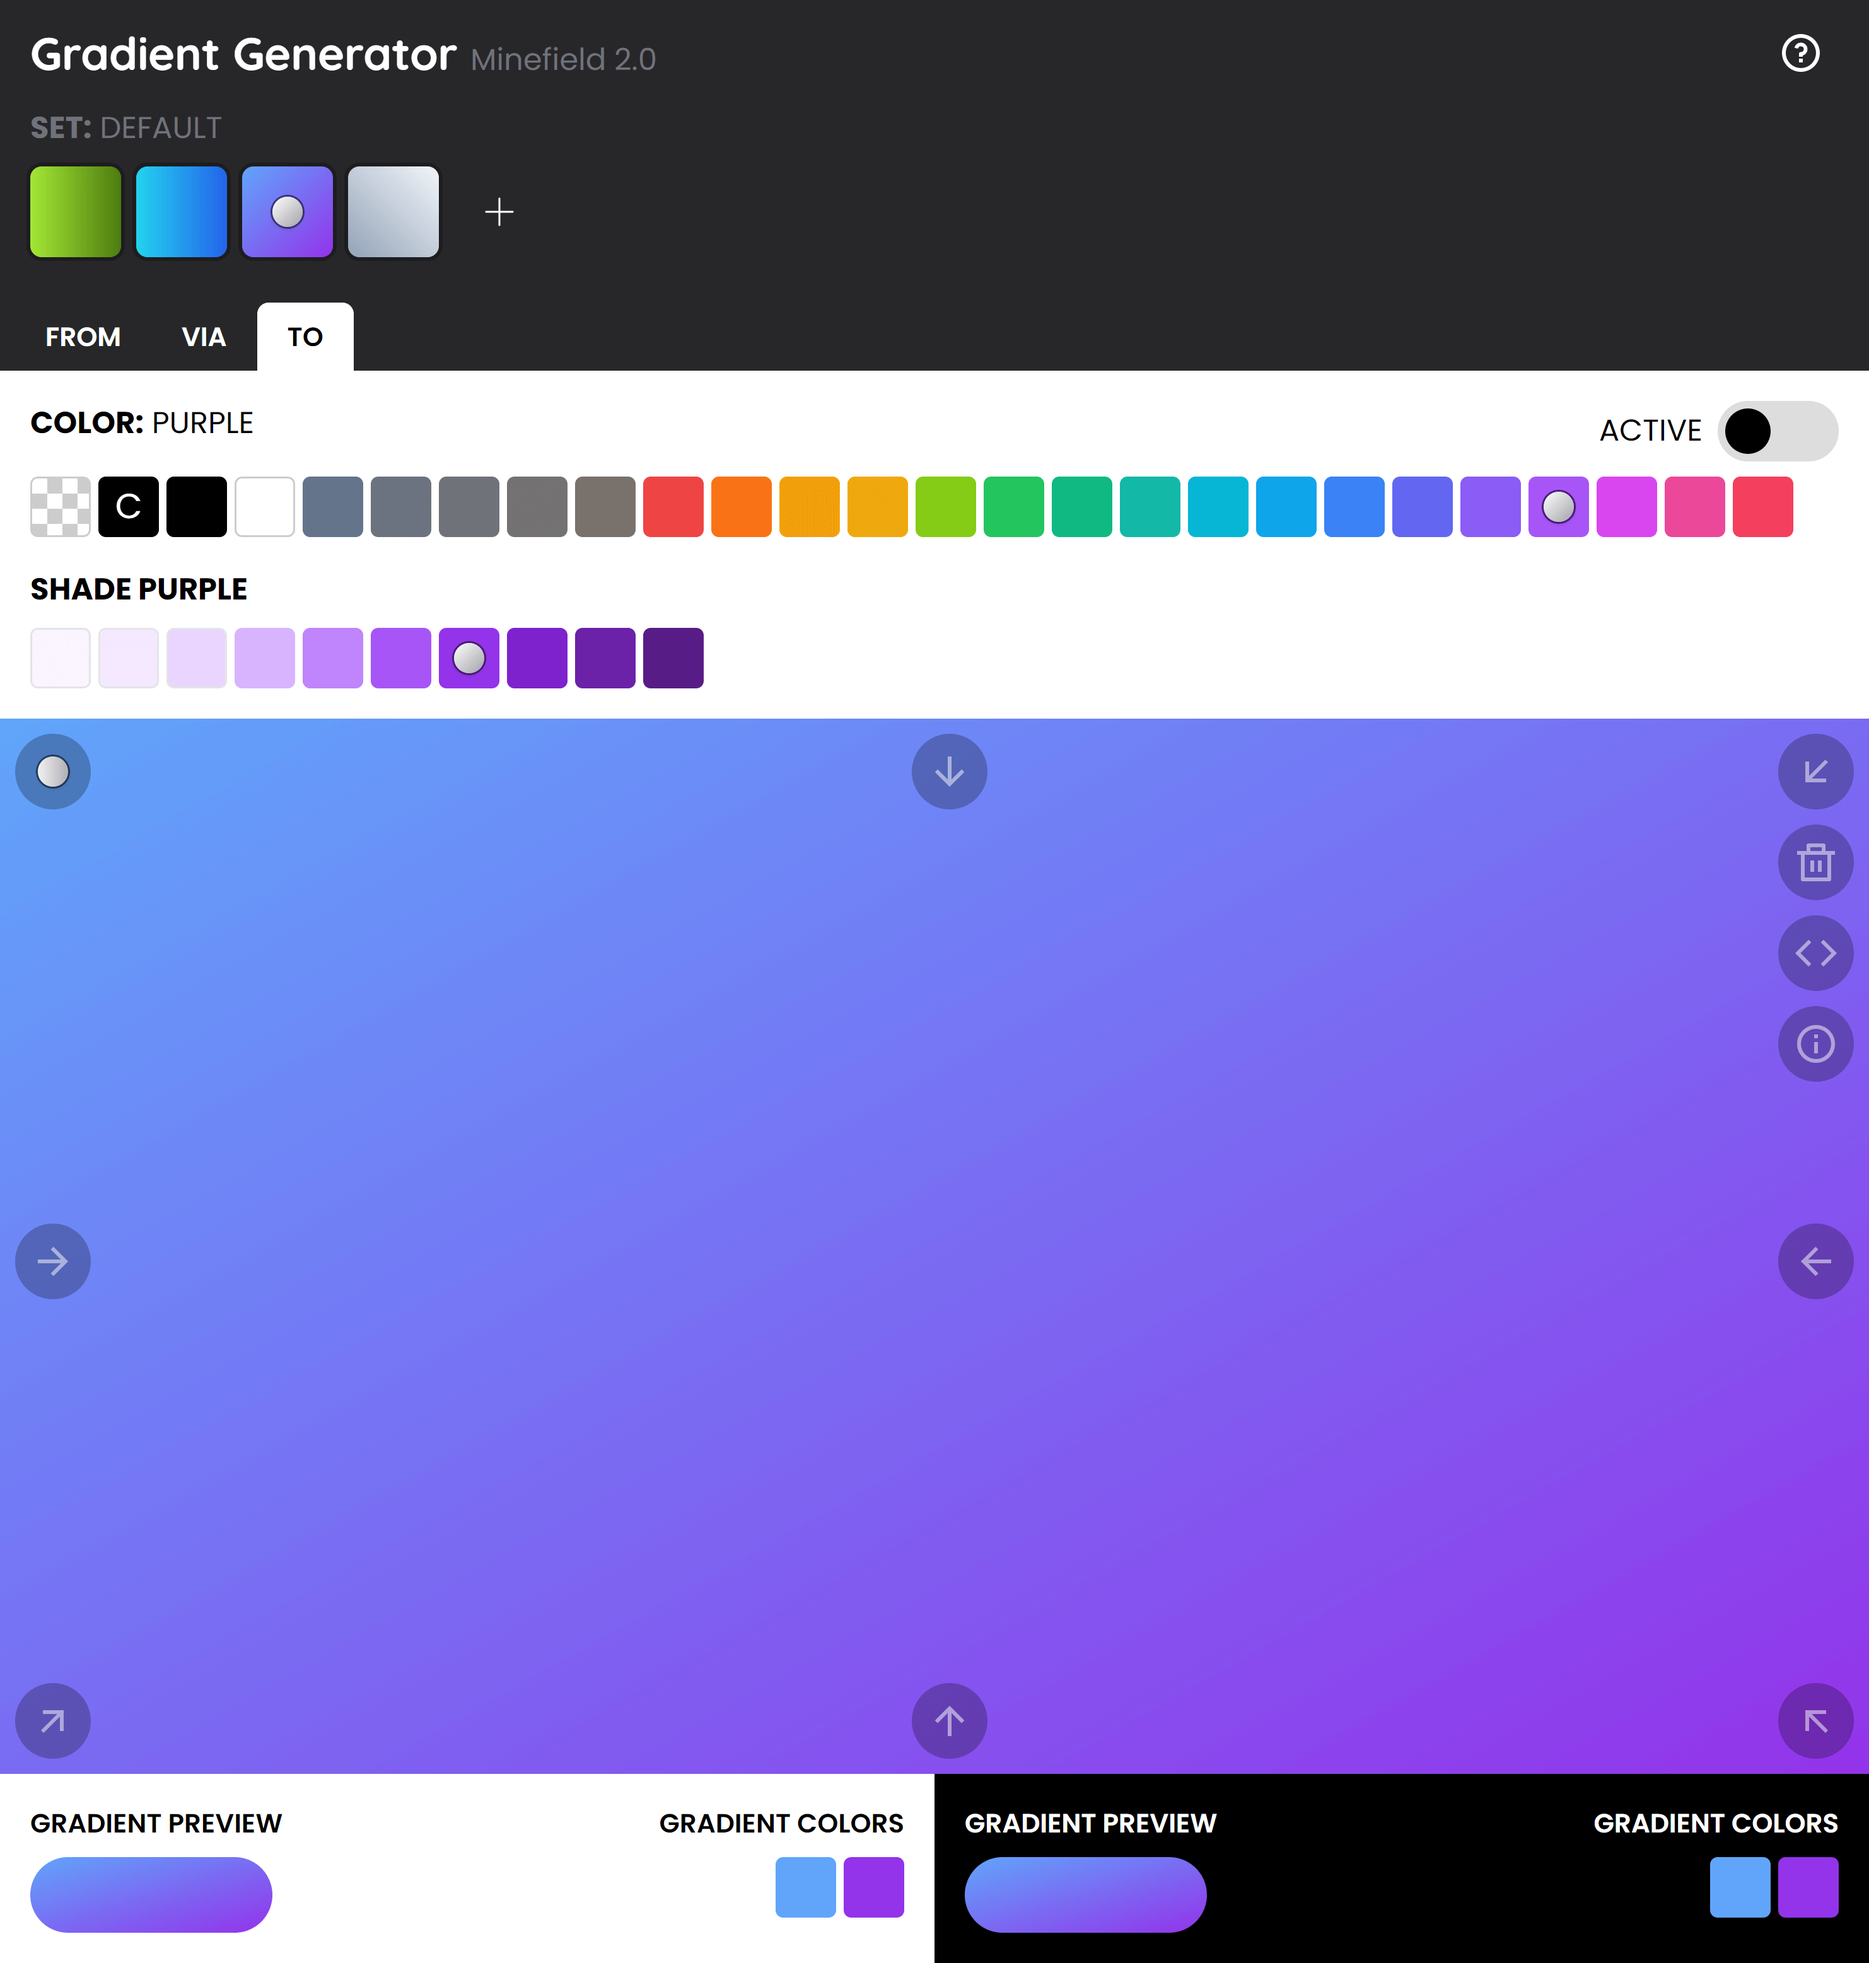
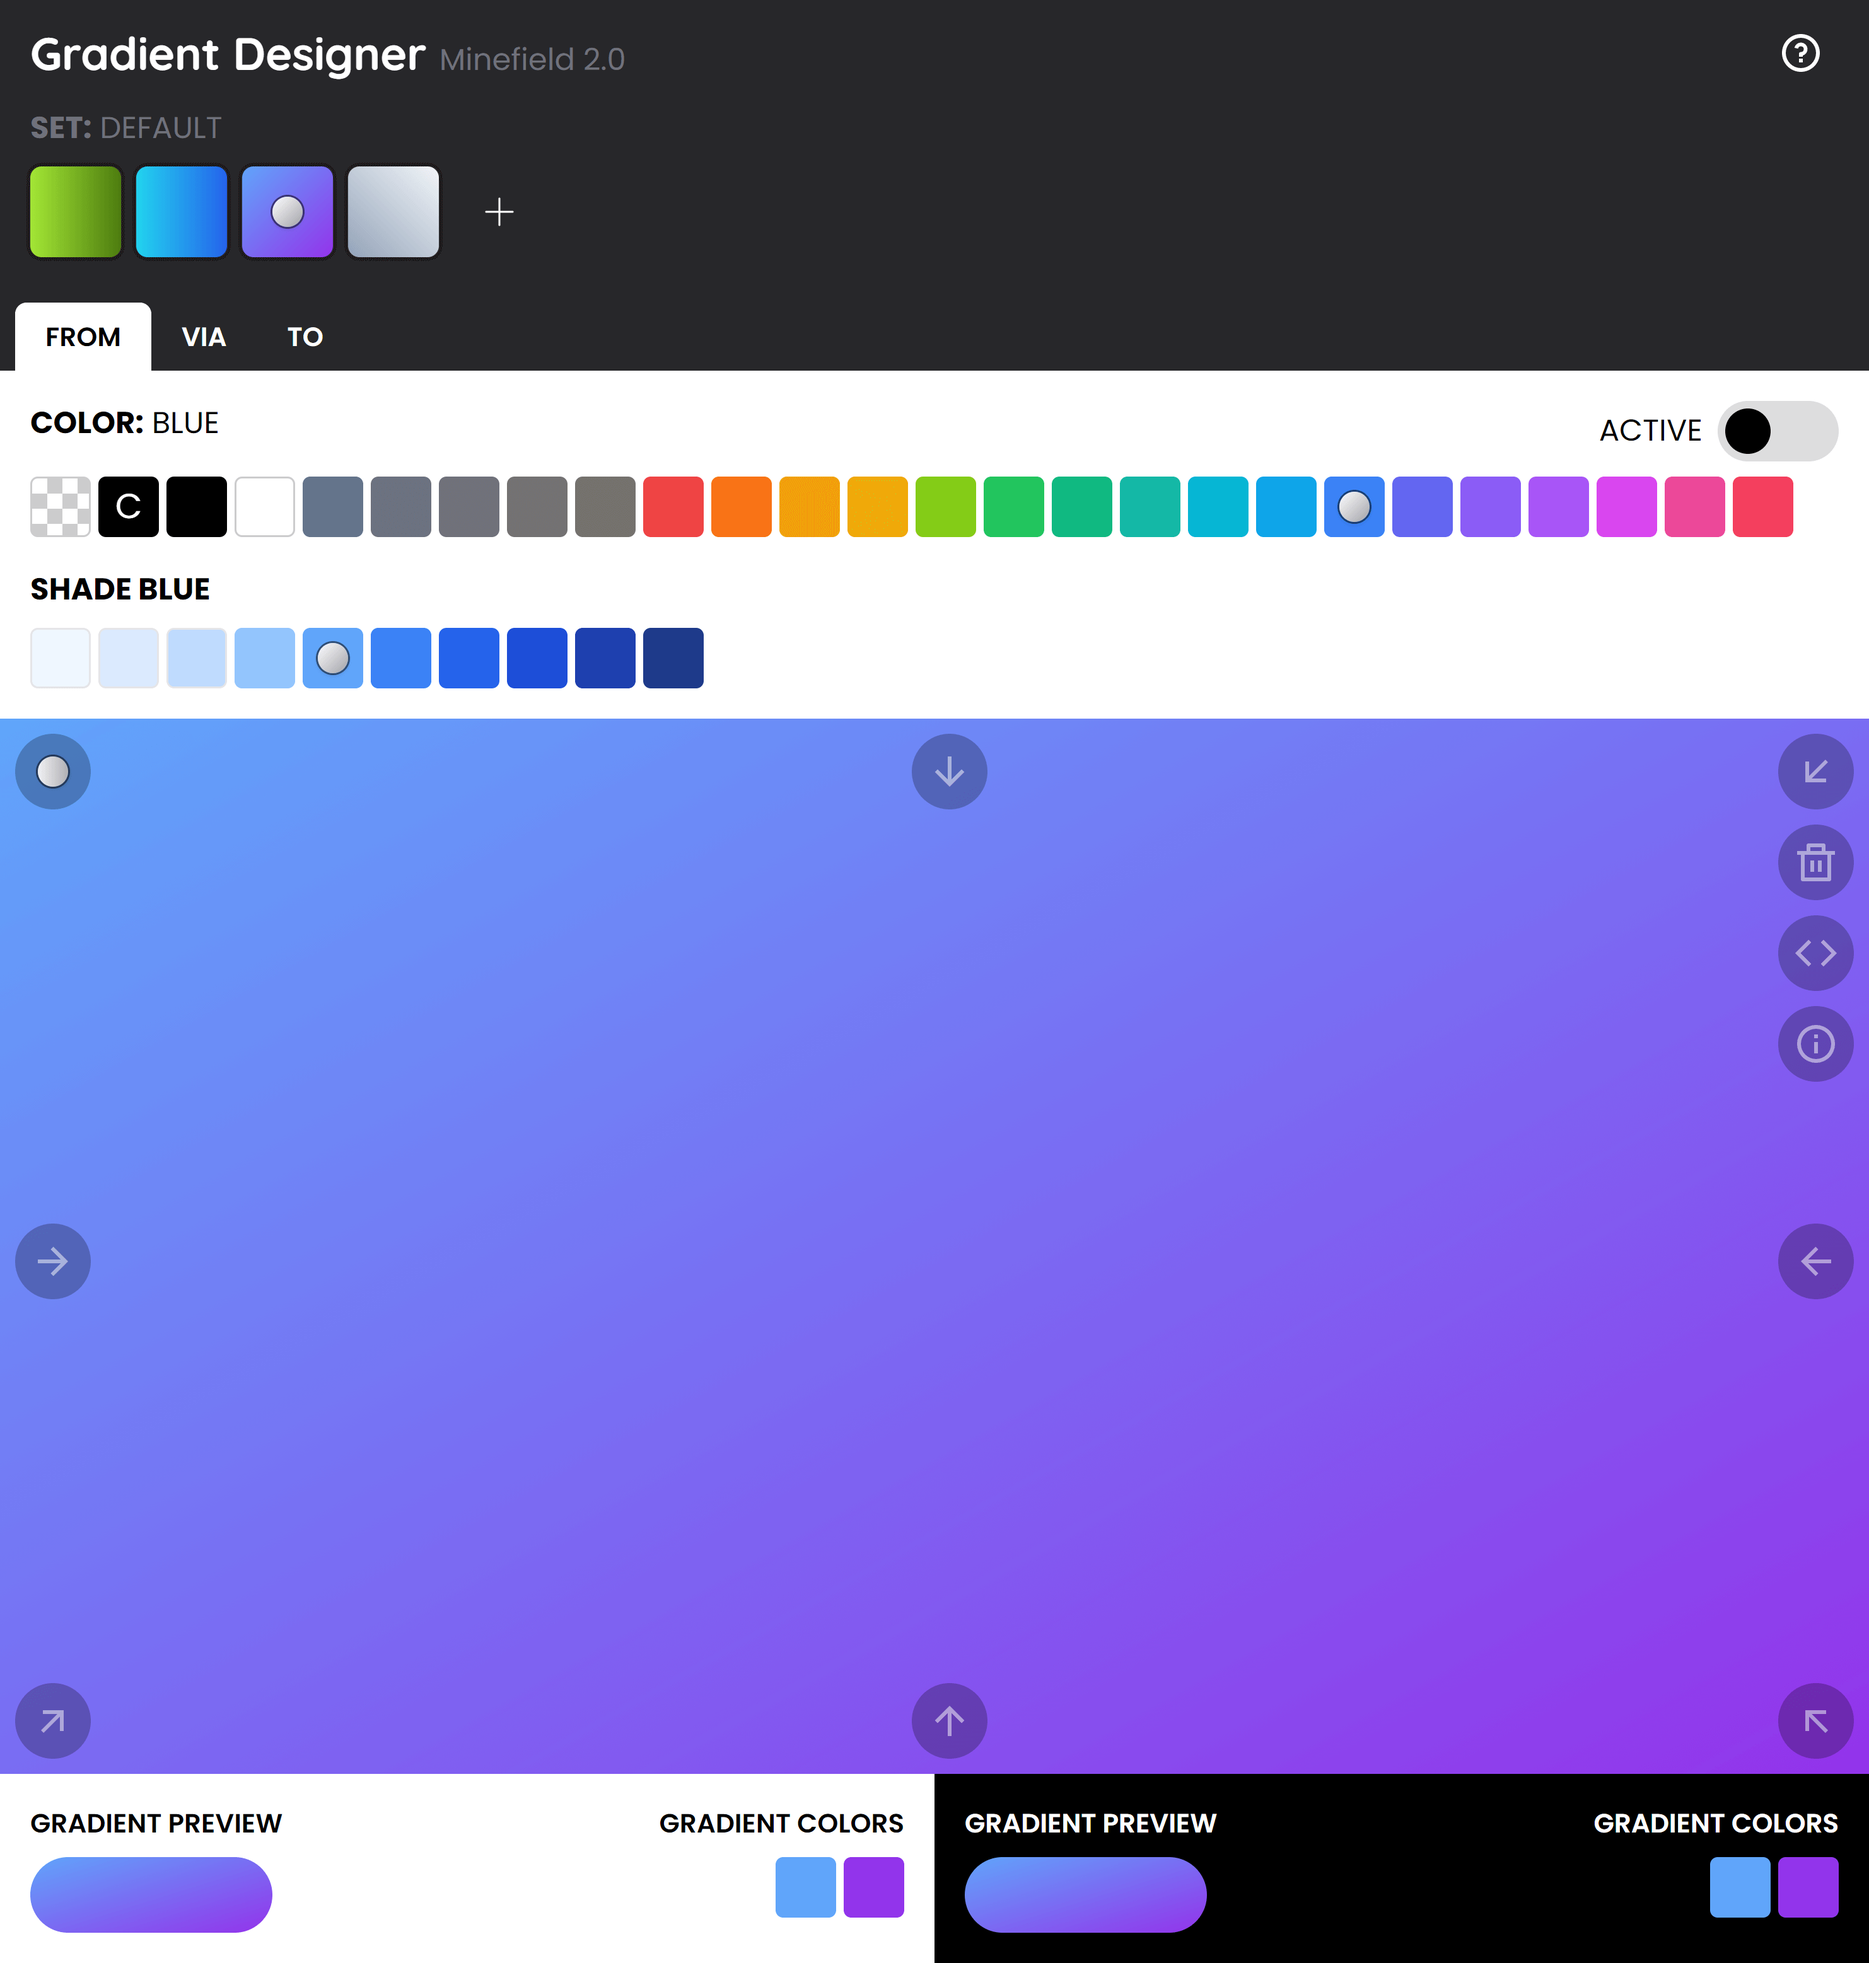
Updated screenshot

diff --git a/src/components/ModalAbout.vue b/src/components/ModalAbout.vue
@@ -5,7 +5,7 @@
     v-if="store.state.modal"
   >
     <div class="flex flex-col max-w-screen-sm gap-4 p-8 bg-white rounded-lg">
-      <h1 class="text-4xl font-bold font-heading">Gradient Generator</h1>
+      <h1 class="text-4xl font-bold font-heading">Gradient Designer</h1>
 
       <div class="flex flex-col gap-2">
         <p>

diff --git a/src/components/Topbar.vue b/src/components/Topbar.vue
@@ -3,7 +3,7 @@
     class="flex items-center justify-between px-4 py-2 text-2xl font-bold text-white bg-gray-800 font-heading"
   >
     <div>
-      Gradient Generator
+      Gradient Designer
       <span class="text-base font-normal text-gray-500 font-body"
         >Minefield 2.0</span
       >
